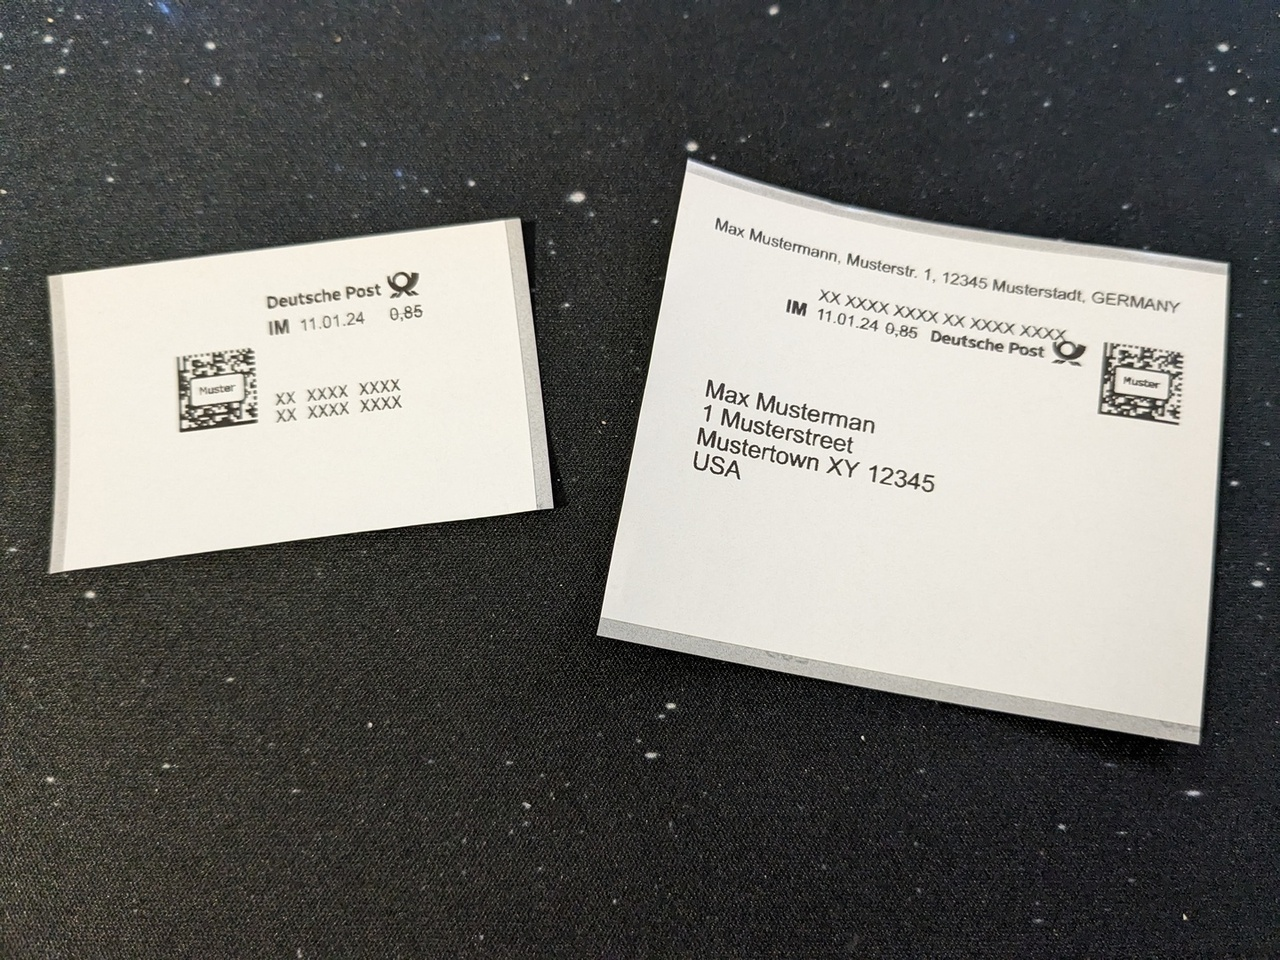
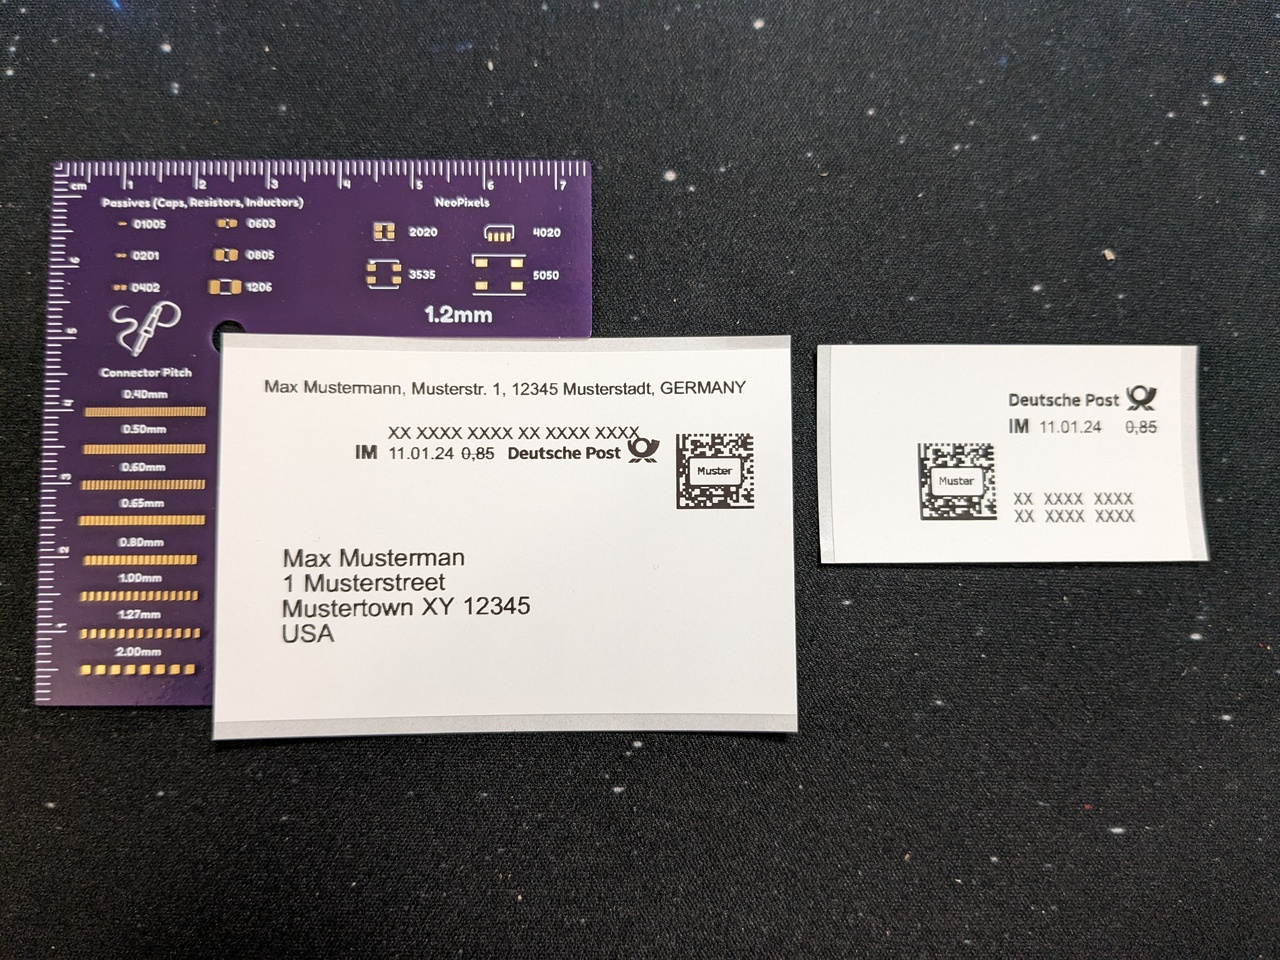
til: improved the stamp scripts

diff --git a/content/til/how-to-print-deutsche-post-stamps-via-the-command-line-on-a-brother-ql-label-printer/index.md b/content/til/how-to-print-deutsche-post-stamps-via-the-command-line-on-a-brother-ql-label-printer/index.md
@@ -1,12 +1,15 @@
 ---
 title: "How to print Deutsche Post stamps via the command line on a Brother QL label printer"
 date: 2024-01-11
+lastmod: 2024-01-12
 tags:
 - brother_ql
 - bash
 - command line
 - linux
 ---
+
+*Update from 2024-01-12: I've updated the scripts to support both 50mm and 62mm wide labels, and added some more whitespace trimming to the basic stamp. The post has been adjusted accordingly.*
 
 I recently acquired a [Brother QL-820NWB label printer](https://www.brother-usa.com/products/QL820NWB) to be able to quickly create labels for boxes and such, and ideally also print out Deutsche Post's "print yourself" stamps with it. The Deutsche Post stamp shop allows me to download PDFs targeting the 62mm wide endless labels for that printer, for the two types of stamps I'm interested in (stamp, and address label with stamp). But my attempts in printing those directly to the printer through Gnome's printer integration weren't successful, things were too small, the cutter didn't work etc.
 
@@ -31,14 +34,16 @@ export BROTHER_QL_MODEL=QL-820NWB
 
 Then I created two shell scripts, one for printing stamps and one for printing labels.
 
-The first one, `porto_print`, takes care of printing the stamps. Not much work here is needed beyond conversion to individual images via `pdftoppm` and ensuring the native pixel size with `imagemagick`:
+The first one, `porto_print`, takes care of printing the stamps. It resizes, trims, adds a new border and then extends to the native width for the selected label size (50mm by default, or 62mm if requested) while keeping a right alignment:
 
 ```bash
 #!/bin/bash
 
 # Usage:
 #
-#   porto_print <pdf>
+#   porto_print <pdf> [50|62]
+
+#!/bin/bash
 
 tmpdir=$(mktemp -d)
 
@@ -48,21 +53,33 @@ cleanup() {
 trap cleanup EXIT
 
 PDF=$1
+LABEL=${2:-50}
 PNG=$(basename "${PDF%.*}")
+
+case $LABEL in
+  "50")
+    WIDTH="554"
+    ;;
+  "62")
+    WIDTH="696"
+    ;;
+  *)
+    echo "Unsupported label size: $LABEL"
+    exit -1
+    ;;
+esac
 
 echo "Converting PDF to individual PNGs..."
 pdftoppm "$PDF" "$tmpdir/$PNG" -png -r 600
 
 for file in $(ls $tmpdir/*.png); do
-    echo "Printing $file..."
-    mogrify -resize 696x "$file" 
-    brother_ql print -l 62 "$file" 
+  echo "Printing $file..."
+  mogrify -background white -bordercolor white -resize 696x -trim -border 25x25 -gravity east -extent ${WIDTH}x284 "$file"
+  brother_ql print -l $LABEL "$file" 
 done
 ```
 
-The second one, `porto_address_print`, is a bit more involved. The individual label PDFs provided by Deutsche Post contain a ton of whitespace, so I wanted to do some clean-up first to produce less waste, and also keep the option open for me to switch to the 50mm wide label stock at a later point (which should fit the labels just fine, it's just that Deutsche Post ONLY supports 62mm wide labels for some reason).
-
-So, I extract the images, then for each image, resize it to a target width of 696px, trim all white space, add a border again of 25px, and then blow that up to a width of 696px again, keeping the aspect ration and making sure the source image stays to the left of the new image.[^1] 
+The second one, `porto_address_print`, does basically the same, just with slightly different parameters and left alignment: 
 
 ``` bash
 #!/bin/bash
@@ -79,35 +96,36 @@ cleanup() {
 trap cleanup EXIT
 
 PDF=$1
+LABEL=${2:-50}
 PNG=$(basename "${PDF%.*}")
 
-GEOMETRY=696x839
-LABEL=62
-
-# For 50mm labels, these values should work:
-# GEOMETRY=554x839
-# LABEL=50 
+case $LABEL in
+  "50")
+    WIDTH="554"
+    ;;
+  "62")
+    WIDTH="696"
+    ;;
+  *)
+    echo "Unsupported label size: $LABEL"
+    exit -1
+    ;;
+esac
 
 echo "Converting PDF to individual PNGs..."
 pdftoppm "$PDF" "$tmpdir/$PNG" -png -r 600
 
 for file in $(ls $tmpdir/*.png); do
-    echo "Printing $file..."
-    mogrify -resize 696x "$file" 
-    mogrify -trim -background white "$file"
-    mogrify -bordercolor white -border 25x25 "$file"
-    mogrify -background white -gravity West -extent $GEOMETRY "$file" 
-    brother_ql print -l $LABEL "$file" 
+  echo "Printing $file..."
+  mogrify -bordercolor white -background white -resize 696x -trim -border 25x25 -gravity West -extent ${WIDTH}x839 "$file" 
+  brother_ql print -l $LABEL "$file" 
 done
 ```
 
 Both of these were placed under `~/.local/bin` and made executable. I can now call them both from anywhere on the command line, just passing the path to the PDF to print.
 
-The result is one or more nicely printed stamps or address labels, ready to be stuck to an envelope[^2]:
+The result is one or more nicely printed stamps or address labels, ready to be stuck to an envelope:
 
 ![Printed stamp and printed stamp with address label, freshly printed from example files through the two scripts](result.jpg)
 
 Now, this should hopefully make it easier for me to print all those address labels for OctoPrint sticker shipments in the future ;) Next step: Automated QR code labels for the various boxes on my shelves ^^
-
-[^1]: Were I to switch to 50mm wide labels, I'd just have to change the target width of the final step to 554px and adjust the label type. The corresponding values have already be added as comments in the script.
-[^2]: Looking at this I'll definitely look into saving some more whitespace on the basic stamp too though.
